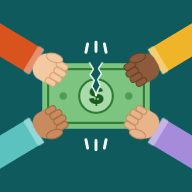
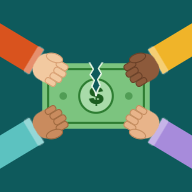
Ícono: quita las marcas de tensión de arriba y abajo

Changed region(s): [[0.4375, 0.7188, 0.5625, 0.7812], [0.4375, 0.2188, 0.5625, 0.2812]]

diff --git a/sw.js b/sw.js
@@ -1,7 +1,7 @@
 // Service worker: guarda la app para usarla sin conexión.
 // Con internet, la página siempre se pide al servidor (así cada cambio publicado aparece al abrir la app).
 // Sin internet, se usa la copia guardada. Al publicar cambios, subí CACHE_VERSION y APP_VERSION en index.html.
-const CACHE_VERSION = "cuentas-pesca-v10";
+const CACHE_VERSION = "cuentas-pesca-v11";
 const FONT_CACHE = "cuentas-pesca-fuentes";
 const NETWORK_TIMEOUT_MS = 4000;
 const APP_FILES = [

diff --git a/index.html b/index.html
@@ -361,7 +361,7 @@ td + td, th + th { padding-left: 10px; }
 <script>
 (function () {
   "use strict";
-  const APP_VERSION = "10"; // subirla junto con CACHE_VERSION de sw.js al publicar
+  const APP_VERSION = "11"; // subirla junto con CACHE_VERSION de sw.js al publicar
   const STORAGE_KEY = "cuentas-pesca-v1";
   const MIN_PEOPLE = 2, MAX_PEOPLE = 5;
   const PERSON_COLORS = ["#0e7c86", "#d9531e", "#6b8e23", "#8a5cc2", "#c2930e"];
